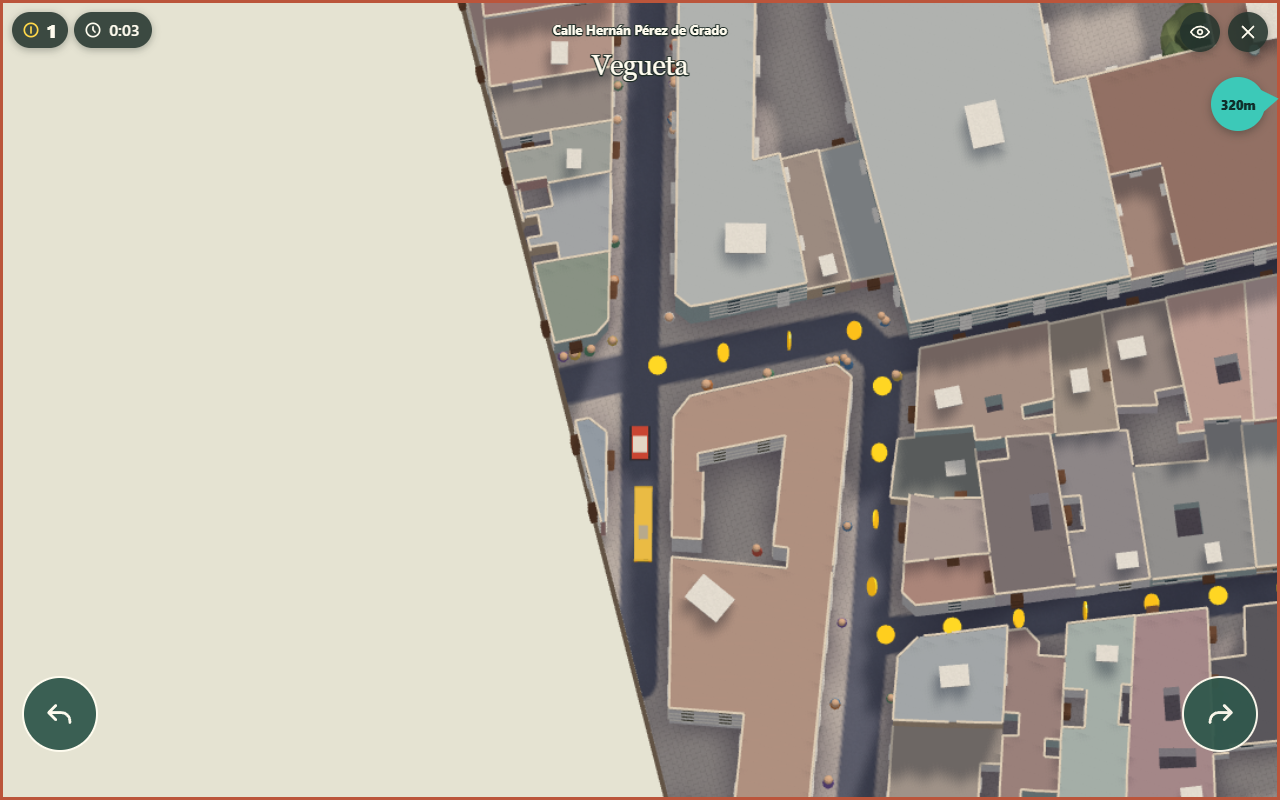
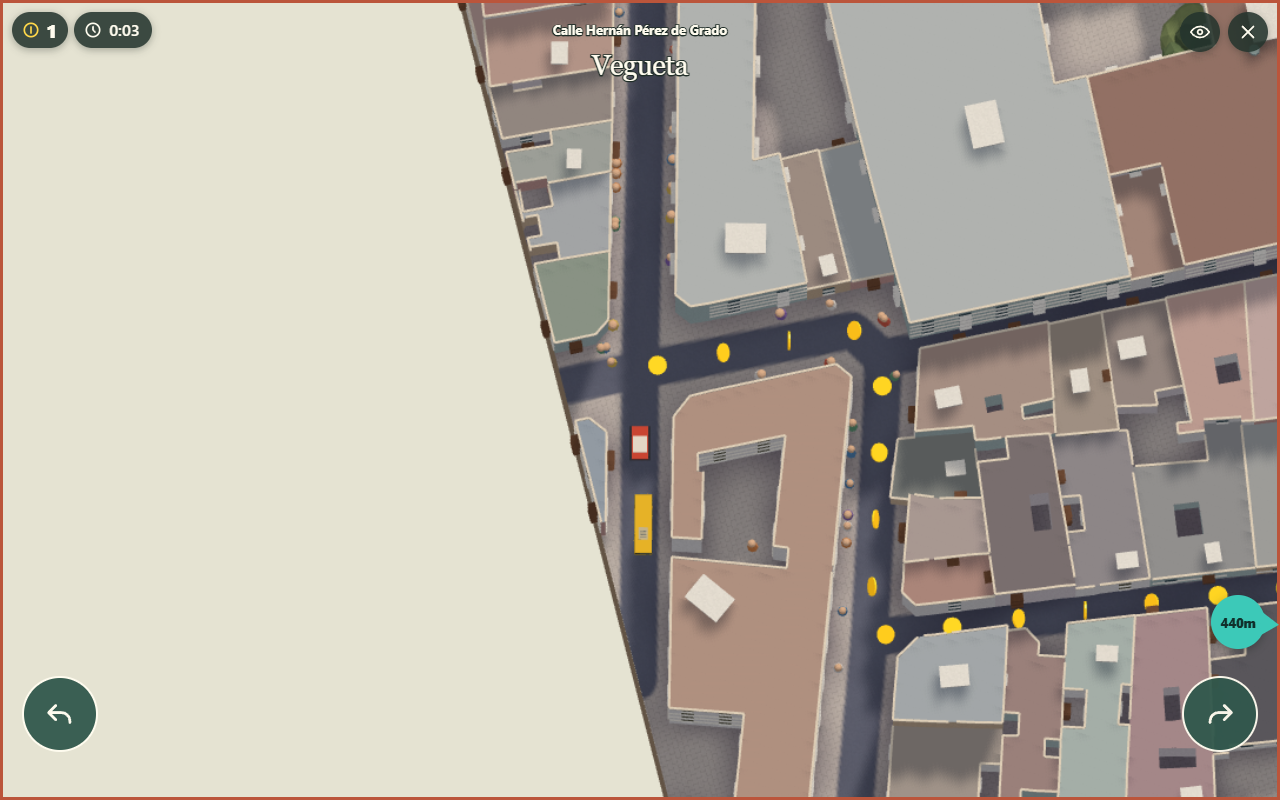
Compact the guagua and document how to extend its route

diff --git a/src/drive/guagua.ts b/src/drive/guagua.ts
@@ -1,4 +1,5 @@
 import * as T from 'three';
+import {RoundedBoxGeometry} from 'three/addons/geometries/RoundedBoxGeometry.js';
 import {mergeGeometries} from 'three/addons/utils/BufferGeometryUtils.js';
 import {required} from '../required.ts';
 import {tint} from './car-model.ts';
@@ -86,7 +87,8 @@ export function makeGuagua(data: GuaguaData){
 
 type BusPose=Pick<ReturnType<typeof makeGuagua>['state'],'x'|'y'|'h'|'speed'>;
 type CarBody=Pick<Body,'x'|'y'|'vx'|'vy'>;
-const HALF_LENGTH=4.5, HALF_WIDTH=1.1;
+const HALF_LENGTH=3.6, HALF_WIDTH=1.1;
+export const BUS_AXLE=2.08;
 
 /** Resolve circle against moving oriented body, preserving tangential velocity. */
 export function resolveGuaguaContact(bus: BusPose, car: CarBody, radius: number){
@@ -116,19 +118,46 @@ export function resolveGuaguaContact(bus: BusPose, car: CarBody, radius: number)
 export function guaguaMesh(paint: T.MeshStandardMaterial,red: T.MeshBasicMaterial){
   const box=(l:number,h:number,w:number,x:number,y:number,z:number,color:string)=>
     tint(new T.BoxGeometry(l,h,w).translate(x,y,z),color);
-  const yellow='#efbd29', glass='#334c59';
+  const yellow='#fac421', trim='#222c33', glass='#446678';
+  const shell=(l:number,h:number,w:number,y:number,r:number,color:string)=>
+    tint(new RoundedBoxGeometry(l,h,w,1,r).translate(0,y,0),color);
   const parts=[
-    box(9,2.6,2.16,0,1.66,0,yellow), box(8.55,.14,2.1,0,3,0,'#ffce47'),
-    box(1.65,.16,1.12,-1,3.15,0,'#c7ba9a'), box(.04,1.12,1.92,4.49,1.93,0,glass),
-    box(.04,.85,1.62,-4.49,2,0,glass)
+    shell(2*HALF_LENGTH,1.15,2.14,.92,.16,yellow),
+    shell(7.14,1.58,2.13,2.08,.17,trim),
+    shell(7.04,.17,2.10,2.88,.08,yellow),
+    box(.035,1.03,1.86,3.57,1.97,0,glass),
+    box(.02,.18,1.82,3.59,2.38,0,'#64828b'),
+    box(.025,.09,1.05,3.60,.66,0,trim),
+    box(.04,.78,1.67,-3.57,2.03,0,glass),
+    box(1.48,.14,1.12,-1.15,3.01,0,'#d4c499')
   ];
+  // The header sits above the windscreen. Amber segments show the route number 13.
+  for(const [z,y] of [[.66,2.70],[.66,2.56],[.37,2.70],[.37,2.56]])
+    parts.push(box(.02,.095,.035,3.575,y,z,'#ff9b37'));
+  for(const y of [2.77,2.63,2.49])parts.push(box(.02,.033,.15,3.575,y,.43,'#ff9b37'));
   for(const side of [-1,1]){
-    for(const x of [-3.46,-2.1,-.74,.62,1.98,3.34])parts.push(box(1.25,.96,.04,x,2.02,side*1.08,glass));
-    for(const x of [-2.8,2.75])parts.push(tint(new T.CylinderGeometry(.49,.49,.22,10)
-      .rotateX(Math.PI/2).translate(x,.49,side*.99),'#282a2b'));
+    parts.push(box(.025,.27,.36,3.597,.97,side*.78,'#a9a99d'),
+      box(.025,.11,.24,3.612,1.0,side*.78,'#fff1bb'));
+    const wiper=box(.023,.033,.62,0,0,0,trim).rotateX(-.16).translate(3.597,1.53,side*.45);
+    parts.push(wiper);
+    for(const x of [-2.67,-1.38,-.09,1.20,2.88]){
+      // The two passenger doors are on the right (local +Z) and reach the step.
+      const door=side===1 && (x===-.09 || x===2.88);
+      const width=x===2.88 ? .78 : 1.12;
+      if(door)parts.push(box(width+.08,2.11,.03,x,1.51,1.068,trim));
+      parts.push(box(width,door?1.75:.98,.034,x,door?1.52:1.99,side*1.084,glass));
+      if(door)parts.push(box(.06,1.80,.036,x,1.52,1.086,trim));
+    }
+    for(const axle of [-BUS_AXLE,BUS_AXLE]){
+      const wheel=(radius:number,depth:number,z:number,color:string)=>tint(
+        new T.CylinderGeometry(radius,radius,depth,12).rotateX(Math.PI/2).translate(axle,.48,side*z),color);
+      parts.push(wheel(.48,.18,1.00,'#25282b'),wheel(.245,.02,1.09,yellow));
+    }
   }
-  const mesh=new T.Mesh(required(mergeGeometries(parts),'bus geometry'),paint);
-  const lights=[-.78,.78].map(z=>new T.BoxGeometry(.07,.2,.31).translate(-4.5,1.25,z));
+  for(let i=0;i<4;i++)parts.push(box(.085,.035,.75,-1.55+i*.23,3.09,0,'#727975'));
+  const geometry=required(mergeGeometries(parts.map(p=>p.index?p.toNonIndexed():p)),'bus geometry');
+  const mesh=new T.Mesh(geometry,paint);
+  const lights=[-.78,.78].map(z=>new T.BoxGeometry(.05,.2,.23).translate(-3.57,.96,z));
   const brake=new T.Mesh(required(mergeGeometries(lights),'bus stop lights'),red);
   mesh.add(brake); mesh.rotation.order='YXZ'; mesh.visible=false;
   return {mesh,brake};

diff --git a/src/drive/drive.ts b/src/drive/drive.ts
@@ -19,7 +19,7 @@ import {makeDriveLocation} from './drive-location.ts';
 import {makePedestrians} from './pedestrians.ts';
 import {makeDriveEffects} from './drive-effects.ts';
 import {makeCrowdView} from './drive-crowd.ts';
-import {guaguaMesh,makeGuagua,loadGuagua,resolveGuaguaContact} from './guagua.ts';
+import {BUS_AXLE,guaguaMesh,makeGuagua,loadGuagua,resolveGuaguaContact} from './guagua.ts';
 import {CAPTURE,COINS,TUNE,wrap} from './drive-tune.ts';
 
 // Ratios that keep a single tuning value for related effects. At the defaults they give the earlier separate
@@ -499,7 +499,7 @@ export function makeDrive({scene,camera,renderer,host,data,locations,altitude,gr
     if(bus){
       const {x,y,h,braking}=bus.state;
       busView.mesh.position.set(x,groundAt(x,y)+.72,-y);
-      busView.mesh.rotation.set(0,h,groundPitch(groundAt,x,y,h,2.75,TILT_LIMIT));
+      busView.mesh.rotation.set(0,h,groundPitch(groundAt,x,y,h,BUS_AXLE,TILT_LIMIT));
       busView.mesh.visible=true;busView.brake.visible=braking;
     }
     const shellPitch=playerPose.pitch+player.tilt*TUNE.slopeLean;
@@ -522,7 +522,7 @@ export function makeDrive({scene,camera,renderer,host,data,locations,altitude,gr
         const threats: {x:number;y:number;vx:number;vy:number}[]=[player,...chasers.filter(c=>!c.wreck)];
         if(bus){
           const {x,y,h,speed}=bus.state,fx=Math.cos(h),fy=Math.sin(h);
-          for(const along of [-3.3,0,3.3])threats.push({x:x+along*fx,y:y+along*fy,vx:speed*fx,vy:speed*fy});
+          for(const along of [-2.4,0,2.4])threats.push({x:x+along*fx,y:y+along*fy,vx:speed*fx,vy:speed*fy});
         }
         people.update(dt,player,threats);
       }

diff --git a/scripts/guaguas.py b/scripts/guaguas.py
@@ -31,7 +31,7 @@ def rows(archive, table):
 
 
 def check_sweep(path, city, style):
-    # Sweep the entire 9 x 2.2 m body along every exported segment. Use the
+    # Sweep the entire 7.2 x 2.2 m body along every exported segment. Use the
     # original road widths shared by the pilot and city, including intersections.
     region = path.envelope.buffer(12)
     streets = []
@@ -56,7 +56,7 @@ def check_sweep(path, city, style):
         length = math.hypot(dx, dy)
         ux, uy = dx/length, dy/length
         swept = Polygon([(x + f*ux - s*uy, y + f*uy + s*ux)
-                         for (x,y), f, s in [(a,-4.5,1.1),(a,-4.5,-1.1),(b,4.5,-1.1),(b,4.5,1.1)]])
+                         for (x,y), f, s in [(a,-3.6,1.1),(a,-3.6,-1.1),(b,3.6,-1.1),(b,3.6,1.1)]])
         if not clear.covers(swept):
             raise ValueError(f"Bus envelope leaves drivable area near {a}: {swept.difference(clear).area:.3f} m²")
 

diff --git a/docs/QA.md b/docs/QA.md
@@ -1036,7 +1036,7 @@ Dopo l’arrivo dei nuovi modelli dei luoghi (f9b9da9), sulla seconda build isol
 
 ## Guagua in Conducir · 25 novembre 2026
 
-La linea 13 verso Tres Palmas percorre 230,8 m in Vegueta. L’importatore ha verificato il rettangolo del veicolo (9 × 2,2 m) lungo ogni segmento, compresi muso e coda, contro carreggiate, edifici, alberi e limite del pilota e della città. Due estrazioni dello stesso ZIP producono file identici. Un archivio invalido lascia intatto l’ultimo estratto valido.
+La linea 13 verso Tres Palmas percorre 230,8 m in Vegueta. L’importatore ha verificato il rettangolo del veicolo (7,2 × 2,2 m) lungo ogni segmento, compresi muso e coda, contro carreggiate, edifici, alberi e limite del pilota e della città. Due estrazioni dello stesso ZIP producono file identici. Un archivio invalido lascia intatto l’ultimo estratto valido.
 
 La prova a 120 Hz usa entrambe le fermate reali. Verifica frenata, tre secondi di sosta, ripartenza e attesa al termine finché entrambi gli estremi escono dalla vista. A La Portadilla la prova ripete l’inseguimento con gli ostacoli del pilota, la fisica dell’auto e lo sterzo delle pattuglie. Il giocatore che segue la guagua resta dietro. Spostando la traiettoria di avvicinamento di 2,45 m verso sinistra, il giocatore supera il bus mentre la pattuglia entra in contatto e rallenta. Il controllo copre anche gli urti laterali e la separazione dei corpi sovrapposti.
 
@@ -1052,3 +1052,5 @@ node scripts/qa-guagua-browser.mjs
 La prova browser dedicata parte vicino alla prima fermata, con le richieste esterne bloccate, su desktop e telefono emulato. Osserva entrambe le soste e ripartenze e riporta la partita all'inizio. Le catture della prima sosta sono in `.cache/qa-guaguas/`. Per una prova manuale aprire `index.html?lab=guida&area=pilot&start=-60,-818` e scegliere la vista aerea con il pulsante della camera.
 
 [Guagua e auto alla prima fermata, vista aerea del pilota](screenshots/guagua-vegueta.png).
+
+**Modello compatto della linea 13.** La lunghezza di collisione passa da 9 a 7,2 m. Il controllo geometrico copre i 230,8 m del percorso e il test di inseguimento verifica che il giocatore possa ancora superare il bus a La Portadilla. [Vista del modello dal lato porte](screenshots/guagua-modello.png).

diff --git a/docs/GUAGUAS.md b/docs/GUAGUAS.md
@@ -1,0 +1,14 @@
+# Guaguas in drive mode
+
+One yellow bus follows line 13 towards Tres Palmas in Vegueta. To start beside its first stop, open `index.html?lab=guida&area=pilot&start=-60,-818`. Press a driving key to start the simulation. The aerial camera makes the bus easier to see.
+
+**How it works.** The game loads a local extract of the official GTFS feed. It follows a 231 m street segment, brakes at stops 73 and 75, waits three seconds, then accelerates. At the end it waits until both ends of the route are offscreen before starting again. The player and patrols share the same collision response against the 7.2 × 2.2 m bus. Pedestrians react to its front, middle and rear. [Route data](../public/data/guaguas.json) · [Movement and model](../src/drive/guagua.ts) · [Driving integration](../src/drive/drive.ts)
+
+**How to extend it.** Select consecutive stops on one GTFS trip and trace the corresponding drivable street in the direction of service. The current importer uses one OSM way. For a longer route, join the reviewed ways in travel order and check the full bus body through each turn. Update the route number on the model if the line changes. Regenerate the extract from one feed ZIP, then run the checks below from the repository root. [Importer](../scripts/guaguas.py) · [Feed and download instructions](GEODATA_SOURCES.md#guaguas-municipales--modalità-guida)
+
+```sh
+python scripts/guaguas.py .cache/guaguas/feed.zip
+node scripts/qa-guagua-motion.mjs
+npm run build
+node scripts/qa-guagua-browser.mjs
+```

diff --git a/PROGRESS.md b/PROGRESS.md
@@ -173,3 +173,7 @@ Città a 36,22 km², 28.748 parti di edificio, 29 luoghi, 75 zone e 805 settori.
 Ancora aperti: fotogramma doppio a Santa Ana e Santo Domingo (causa GPU non diagnosticata); heap dopo la raccolta a ~106 MB; 103 edifici con tetto LiDAR oltre 10 m sopra il dato comunale; nessun luogo dedicato in Ciudad Alta; `qa.mjs` e `qa-main-lod` da riverificare con Chrome; tempi da rimisurare a macchina libera. Fase C (ridipintura AI) solo pianificata, non autorizzata.
 
 **Guaguas Municipales · Conducir.** Una guagua della linea 13 verso Tres Palmas percorre Calle Hernán Pérez de Grado fra le fermate 73 e 75. La guida usa l’estratto locale del GTFS ufficiale. Il veicolo frena e riparte dopo tre secondi, interagisce con auto e pattuglie e fa scostare i pedoni. Percorso e ingombro sono verificati sia nel pilota sia nella città. [Fonti e rigenerazione](docs/GEODATA_SOURCES.md#guaguas-municipales--modalità-guida) · [Prove](docs/QA.md#guagua-in-conducir--25-novembre-2026).
+
+**Guagua compatta.** La carrozzeria gialla riprende dalle foto di riferimento il parabrezza panoramico, la fascia scura continua, le porte vetrate e i coprimozzi gialli. Il display frontale indica la linea 13. Il rettangolo di collisione misura 7,2 × 2,2 m, con assi delle ruote e punti di rilevamento dei pedoni riposizionati. Verificati ingombro sul percorso e sorpasso a La Portadilla. [Modello visto dal lato porte](docs/screenshots/guagua-modello.png).
+
+[Guaguas in drive mode · English maintenance guide](docs/GUAGUAS.md).

diff --git a/docs/GEODATA_SOURCES.md b/docs/GEODATA_SOURCES.md
@@ -91,4 +91,4 @@ curl.exe -fL --retry 2 -A "Mozilla/5.0" https://www.guaguas.com/transit/google_t
 py -3.14 scripts/guaguas.py .cache/guaguas/candidate.zip
 ```
 
-L'importatore collega linea, corsa, geometria e sequenza di fermate della stessa edizione. Converte WGS84 in metri UTM 28N relativi all'origine del plastico, verifica la vicinanza al tracciato e l'intero ingombro 9 × 2,2 m su ciascun segmento in entrambe le mappe. Solo dopo la verifica sostituisce l'estratto. Se una nuova edizione sposta il percorso, riesaminare geometria, fermate e carreggiata prima di aggiornare gli identificativi. Ripetere le prove di sosta, sorpasso, collisioni e riapparizione fuori campo riportate in [QA](QA.md).
+L'importatore collega linea, corsa, geometria e sequenza di fermate della stessa edizione. Converte WGS84 in metri UTM 28N relativi all'origine del plastico, verifica la vicinanza al tracciato e l'intero ingombro 7,2 × 2,2 m su ciascun segmento in entrambe le mappe. Solo dopo la verifica sostituisce l'estratto. Se una nuova edizione sposta il percorso, riesaminare geometria, fermate e carreggiata prima di aggiornare gli identificativi. Ripetere le prove di sosta, sorpasso, collisioni e riapparizione fuori campo riportate in [QA](QA.md).
